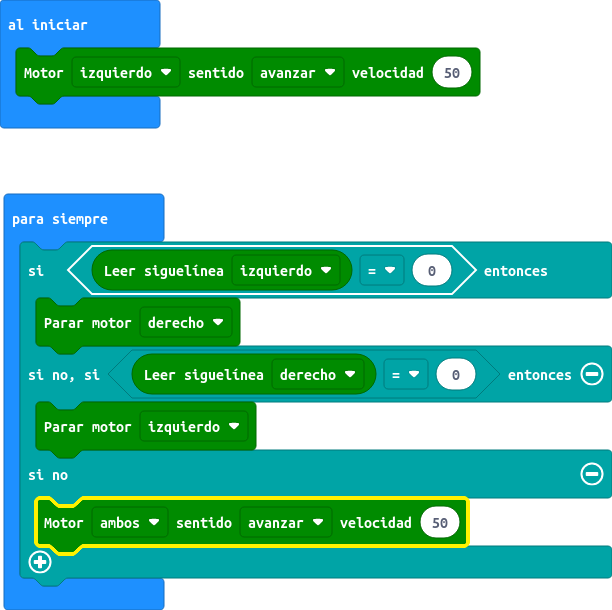
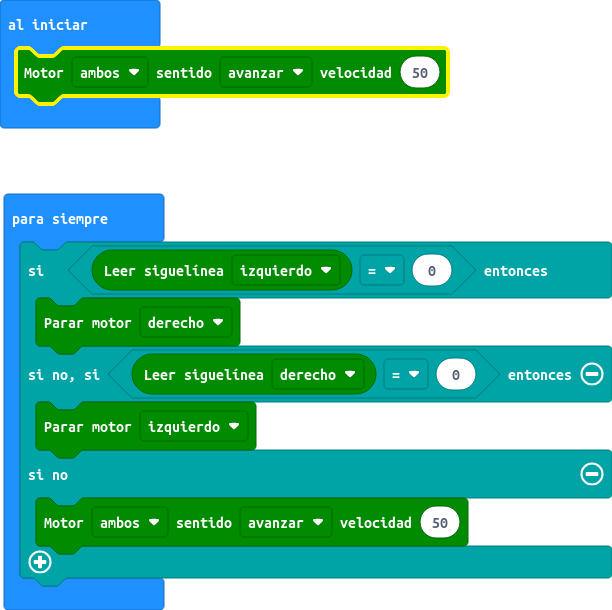
Actualizar main.blocks, main.ts

diff --git a/main.ts b/main.ts
@@ -1,4 +1,4 @@
-maqueen.motorRun(maqueen.Motors.M1, maqueen.Dir.CW, 50)
+maqueen.motorRun(maqueen.Motors.All, maqueen.Dir.CW, 50)
 basic.forever(function () {
     if (maqueen.readPatrol(maqueen.Patrol.PatrolLeft) == 0) {
         maqueen.motorStop(maqueen.Motors.M2)
